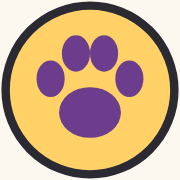
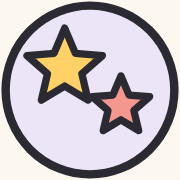
Phase 2: Welcome page, three tabs, podcast moves to /pet-parents/
- Welcome page with three big buttons (Leora, Amaya, Pet Parents); same three tabs on every page,
  three across on phones; tabs come from content/site.json (kids + sections)
- Podcast pages now under /pet-parents/ with an Episodes / About row; redirects from old addresses
- Placeholder Two Sisters Studio wordmark, favicon and link-preview image
- Kid pages ready for the galleries (Phase 3)

Claude-Session: https://claude.ai/code/session_01H5BiQDoh5xXhv72FDuRT1P

diff --git a/site-src/styles.css b/site-src/styles.css
@@ -63,6 +63,8 @@ a:hover { text-decoration-color: var(--plum); }
 }
 .brand { text-decoration: none; color: var(--ink); display: inline-flex; align-items: center; min-height: 52px; }
 .wordmark { display: inline-flex; align-items: center; gap: .3em; font-family: var(--hand); font-weight: 700; font-size: 2rem; line-height: 1; white-space: nowrap; }
+.wm-icon { width: 1.25em; color: var(--ink); }
+.wm-icon svg { width: 100%; }
 .wm-paw { width: 1.05em; color: var(--coral); transform: rotate(-14deg); }
 .wm-paw svg { width: 100%; }
 .wm-1 { color: var(--ink); }
@@ -74,8 +76,8 @@ a:hover { text-decoration-color: var(--plum); }
 }
 .wordmark--big { font-size: clamp(3.2rem, 11vw, 6rem); }
 .wordmark--big .wm-2::after { bottom: .06em; height: .16em; }
-.page-home .site-header { justify-content: center; }
-.page-home .brand { display: none; }
+.page-welcome .site-header { justify-content: center; }
+.page-welcome .brand { display: none; }
 .logo-img { height: 64px; width: auto; }
 .logo-img--big { height: auto; width: min(560px, 90%); margin: 0 auto; }
 
@@ -91,13 +93,39 @@ a:hover { text-decoration-color: var(--plum); }
 .tab-icon { width: 30px; flex: none; }
 .tab-icon svg { width: 100%; }
 .tab:hover { transform: translateY(-2px) rotate(-1deg); box-shadow: 4px 5px 0 var(--ink); }
-.tab--home[aria-current], .tab--home:hover { background: var(--yellow); }
-.tab--artwork[aria-current], .tab--artwork:hover { background: var(--mint); }
-.tab--sister[aria-current], .tab--sister:hover { background: var(--lav); }
-.tab--about[aria-current], .tab--about:hover { background: var(--coral); }
+.tab[aria-current], .tab:hover { background: var(--c); }
 .tab[aria-current] { transform: rotate(-1.5deg); }
+/* One color per tab, set in content/site.json ("color"). */
+.c-coral { --c: var(--coral); --c-soft: var(--coral-soft); }
+.c-lav { --c: var(--lav); --c-soft: var(--lav-soft); }
+.c-mint { --c: var(--mint); --c-soft: var(--mint-soft); }
+.c-yellow { --c: var(--yellow); --c-soft: var(--yellow-soft); }
+.c-sky { --c: #9ccbea; --c-soft: var(--sky-soft); }
 
 main { max-width: var(--max); margin: 0 auto; padding: 8px 20px 40px; }
+
+/* ---------- welcome ---------- */
+.welcome { text-align: center; padding: 30px 0 10px; }
+.welcome .hero-tag { max-width: 40ch; }
+.welcome .wordmark--big { font-size: clamp(2.6rem, 9vw, 5.4rem); white-space: normal; flex-wrap: wrap; justify-content: center; }
+.big-buttons { list-style: none; margin: 34px auto 20px; padding: 0; display: grid; grid-template-columns: repeat(auto-fit, minmax(220px, 1fr)); gap: 28px; max-width: 980px; }
+.big-button {
+  display: flex; flex-direction: column; align-items: center; justify-content: center; gap: 14px;
+  min-height: 230px; padding: 26px 18px; background: var(--c-soft); color: var(--ink); text-decoration: none;
+  border-radius: var(--wobble-lg); transition: transform .2s ease, box-shadow .2s ease, background-color .2s ease;
+}
+.big-buttons li:nth-child(3n+1) .big-button { transform: rotate(-1.2deg); }
+.big-buttons li:nth-child(3n+2) .big-button { transform: rotate(.8deg); }
+.big-buttons li:nth-child(3n+3) .big-button { transform: rotate(-.5deg); }
+.big-button:hover, .big-button:focus-visible { background: var(--c); transform: translateY(-4px) rotate(0deg); box-shadow: 6px 8px 0 var(--ink); }
+.big-icon { width: 110px; padding: 14px; background: #fff; border: 3px solid var(--ink); border-radius: 50%; }
+.big-icon svg { width: 100%; }
+.big-label { font-family: var(--hand); font-weight: 700; font-size: clamp(2rem, 4vw, 2.6rem); line-height: 1.1; }
+
+/* ---------- podcast section ---------- */
+.subnav ul { list-style: none; margin: 14px 0 0; padding: 0; display: flex; flex-wrap: wrap; gap: 6px 26px; }
+.subnav a { display: inline-flex; align-items: center; min-height: 48px; font-weight: 800; font-size: 1.15rem; }
+.subnav a[aria-current] { color: var(--ink); text-decoration-color: var(--mint); }
 
 /* ---------- home ---------- */
 .hero { text-align: center; padding: 26px 0 0; }
@@ -215,8 +243,11 @@ main { max-width: var(--max); margin: 0 auto; padding: 8px 20px 40px; }
 @media (max-width: 760px) {
   body { font-size: 1.125rem; }
   .site-header { justify-content: center; padding-top: 14px; }
-  .tabs { display: grid; grid-template-columns: 1fr 1fr; width: 100%; gap: 10px; }
-  .tab { justify-content: center; font-size: 1.2rem; padding: 8px 10px; }
+  .tabs { display: grid; grid-template-columns: repeat(3, 1fr); width: 100%; gap: 10px; }
+  .tab { flex-direction: column; justify-content: center; gap: 2px; font-size: 1.15rem; padding: 6px 6px; min-height: 72px; text-align: center; line-height: 1.1; }
+  .big-buttons { grid-template-columns: 1fr; gap: 18px; margin-top: 24px; }
+  .big-button { flex-direction: row; justify-content: flex-start; min-height: 112px; padding: 14px 20px; gap: 18px; }
+  .big-icon { width: 80px; padding: 10px; flex: none; }
   .latest-card, .soon-card, .empty { grid-template-columns: 1fr; padding: 18px; }
   .soon-text, .empty p { text-align: center; }
   .soon-text p { margin-inline: auto; }
@@ -227,8 +258,7 @@ main { max-width: var(--max); margin: 0 auto; padding: 8px 20px 40px; }
   .past-title { font-size: 1.35rem; }
   .past-desc { -webkit-line-clamp: 2; }
   .about-art { max-width: 280px; margin: 0 auto; }
-  .tab { font-size: 1.1rem; gap: 6px; }
-  .tab-icon { width: 26px; }
+  .tab-icon { width: 28px; }
   .frame { padding: 8px 8px 6px; }
   .frame figcaption { font-size: 1rem; }
 }
